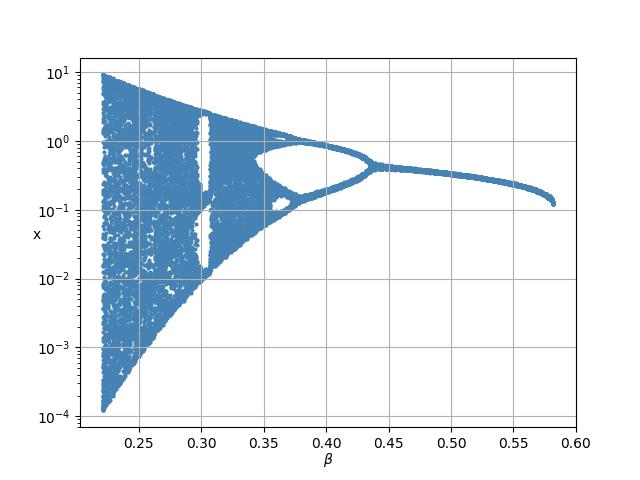
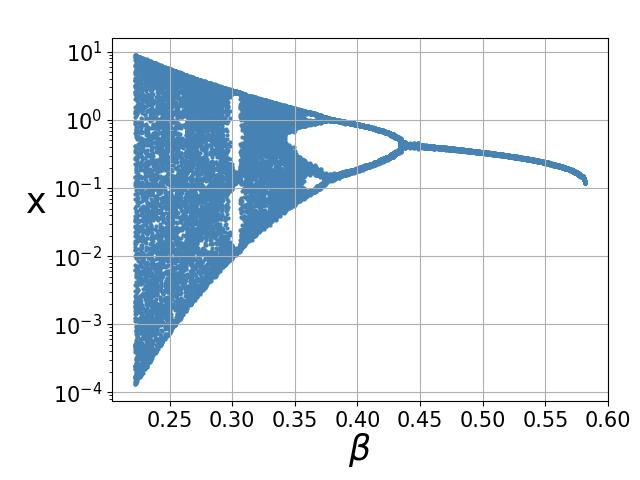
Upd

diff --git a/latex/stochastic/texfiles/bifurcation.tex b/latex/stochastic/texfiles/bifurcation.tex
@@ -6,36 +6,32 @@
 
     \begin{figure}
         \centering
-        \includegraphics[width=\textwidth]{stochastic/images/bifurcation_x_0_2_a_1_compare_no_noise.jpg}
+        \subfloat[для модели (\ref{origin})]{
+            \includegraphics[width=0.55\textwidth]{stochastic/images/bifurcation_x_0_2_a_1_compare_no_noise.jpg}
+            \label{bifurcation_x_0_2_a_1_compare_no_noise}
+        }  
+        \subfloat[для модели (\ref{alpha_chaos})]{
+            \includegraphics[width=0.55\textwidth]{stochastic/images/bifurcation_x_0_2_a_1_compare_alpha_noise.jpg}
+            \label{bifurcation_x_0_2_a_1_compare_alpha_noise}
+        }
         
-        \captionsetup{justification=centering}
-        \caption{Бифуркационная диаграмма для модели (\ref{origin})}
-        \label{bifurcation_x_0_2_a_1_compare_no_noise}
+        \subfloat[для модели (\ref{beta_chaos})]{
+            \includegraphics[width=0.55\textwidth]{stochastic/images/bifurcation_x_0_2_a_1_compare_beta_noise.jpg}
+            \label{bifurcation_x_0_2_a_1_compare_beta_noise}
+        }
+        \subfloat[для модели (\ref{additive_chaos})]{
+            \includegraphics[width=0.55\textwidth]{stochastic/images/bifurcation_x_0_2_a_1_compare_additional_noise.jpg}
+            \label{bifurcation_x_0_2_a_1_compare_additional_noise}
+        }
+            
+        \caption{Бифуркационная диаграмма при \(\varepsilon = 0.01\)}
     \end{figure}
 
-    \begin{figure}
-        \centering
-        \includegraphics[width=\textwidth]{stochastic/images/bifurcation_x_0_2_a_1_compare_alpha_noise.jpg}
+    % \begin{figure}
+    %     \centering
+    %     \includegraphics[width=\textwidth]{stochastic/images/bifurcation_x_0_2_a_1_compare_no_noise.jpg}
         
-        \captionsetup{justification=centering}
-        \caption{Бифуркационная диаграмма для модели (\ref{alpha_chaos}), \(\varepsilon = 0.01\)}
-        \label{bifurcation_x_0_2_a_1_compare_alpha_noise}
-    \end{figure}
-
-    \begin{figure}
-        \centering
-        \includegraphics[width=\textwidth]{stochastic/images/bifurcation_x_0_2_a_1_compare_beta_noise.jpg}
-        
-        \captionsetup{justification=centering}
-        \caption{Бифуркационная диаграмма для модели (\ref{beta_chaos}), \(\varepsilon = 0.01\)}
-        \label{bifurcation_x_0_2_a_1_compare_beta_noise}
-    \end{figure}
-
-    \begin{figure}
-        \centering
-        \includegraphics[width=\textwidth]{stochastic/images/bifurcation_x_0_2_a_1_compare_additional_noise.jpg}
-        
-        \captionsetup{justification=centering}
-        \caption{Бифуркационная диаграмма для модели (\ref{additive_chaos}), \(\varepsilon = 0.01\)}
-        \label{bifurcation_x_0_2_a_1_compare_additional_noise}
-    \end{figure}
+    %     \captionsetup{justification=centering}
+    %     \caption{Бифуркационная диаграмма для модели (\ref{origin})}
+    %     \label{bifurcation_x_0_2_a_1_compare_no_noise}
+    % \end{figure}

diff --git a/grpah/runner.py b/grpah/runner.py
@@ -461,8 +461,11 @@ def run_compare_chaos_bifurcation():
     source0 = convert_dict_to_lists(source0)
 
     (Plotter()
-        .setup_x_label('$\\beta$')
-        .setup_y_label('x')
+        .adjust(top=0.92, bottom=0.165, left=0.175, right=0.95)
+        .setup_x_label('$\\beta$', font_size=25, label_pad=0)
+        .setup_y_label('x', font_size=25, label_pad=12)
+        .setup_x_ticks(font_size=15)
+        .setup_y_ticks(font_size=15)
         .setup_y_scale(scale.log)
         .setup_grid(grid.major)
         .setup_title('Bifurcation')
@@ -478,8 +481,11 @@ def run_compare_chaos_bifurcation():
     source1 = convert_dict_to_lists(source1)
 
     (Plotter()
-        .setup_x_label('$\\beta$')
-        .setup_y_label('x')
+        .adjust(top=0.92, bottom=0.165, left=0.175, right=0.95)
+        .setup_x_label('$\\beta$', font_size=25, label_pad=0)
+        .setup_y_label('x', font_size=25, label_pad=12)
+        .setup_x_ticks(font_size=15)
+        .setup_y_ticks(font_size=15)
         .setup_y_scale(scale.log)
         .setup_grid(grid.major)
         .setup_title('Bifurcation alpha')
@@ -495,8 +501,11 @@ def run_compare_chaos_bifurcation():
     source2 = convert_dict_to_lists(source2)
 
     (Plotter()
-        .setup_x_label('$\\beta$')
-        .setup_y_label('x')
+        .adjust(top=0.92, bottom=0.165, left=0.175, right=0.95)
+        .setup_x_label('$\\beta$', font_size=25, label_pad=0)
+        .setup_y_label('x', font_size=25, label_pad=12)
+        .setup_x_ticks(font_size=15)
+        .setup_y_ticks(font_size=15)
         .setup_y_scale(scale.log)
         .setup_grid(grid.major)
         .setup_title('Bifurcation beta')
@@ -512,8 +521,11 @@ def run_compare_chaos_bifurcation():
     source3 = convert_dict_to_lists(source3)
 
     (Plotter()
-        .setup_x_label('$\\beta$')
-        .setup_y_label('x')
+        .adjust(top=0.92, bottom=0.165, left=0.175, right=0.95)
+        .setup_x_label('$\\beta$', font_size=25, label_pad=0)
+        .setup_y_label('x', font_size=25, label_pad=12)
+        .setup_x_ticks(font_size=15)
+        .setup_y_ticks(font_size=15)
         .setup_y_scale(scale.log)
         .setup_grid(grid.major)
         .setup_title('Bifurcation addition')

diff --git a/grpah/main.py b/grpah/main.py
@@ -21,7 +21,7 @@ if __name__ == "__main__":
     # run_bifurcation()
 
     # Показать графики бифуркации с разными шумами
-    # run_compare_chaos_bifurcation()
+    run_compare_chaos_bifurcation()
 
     # Показать график бифуркации с absorbing area
     # run_bifurcation_with_absorbing_area()
